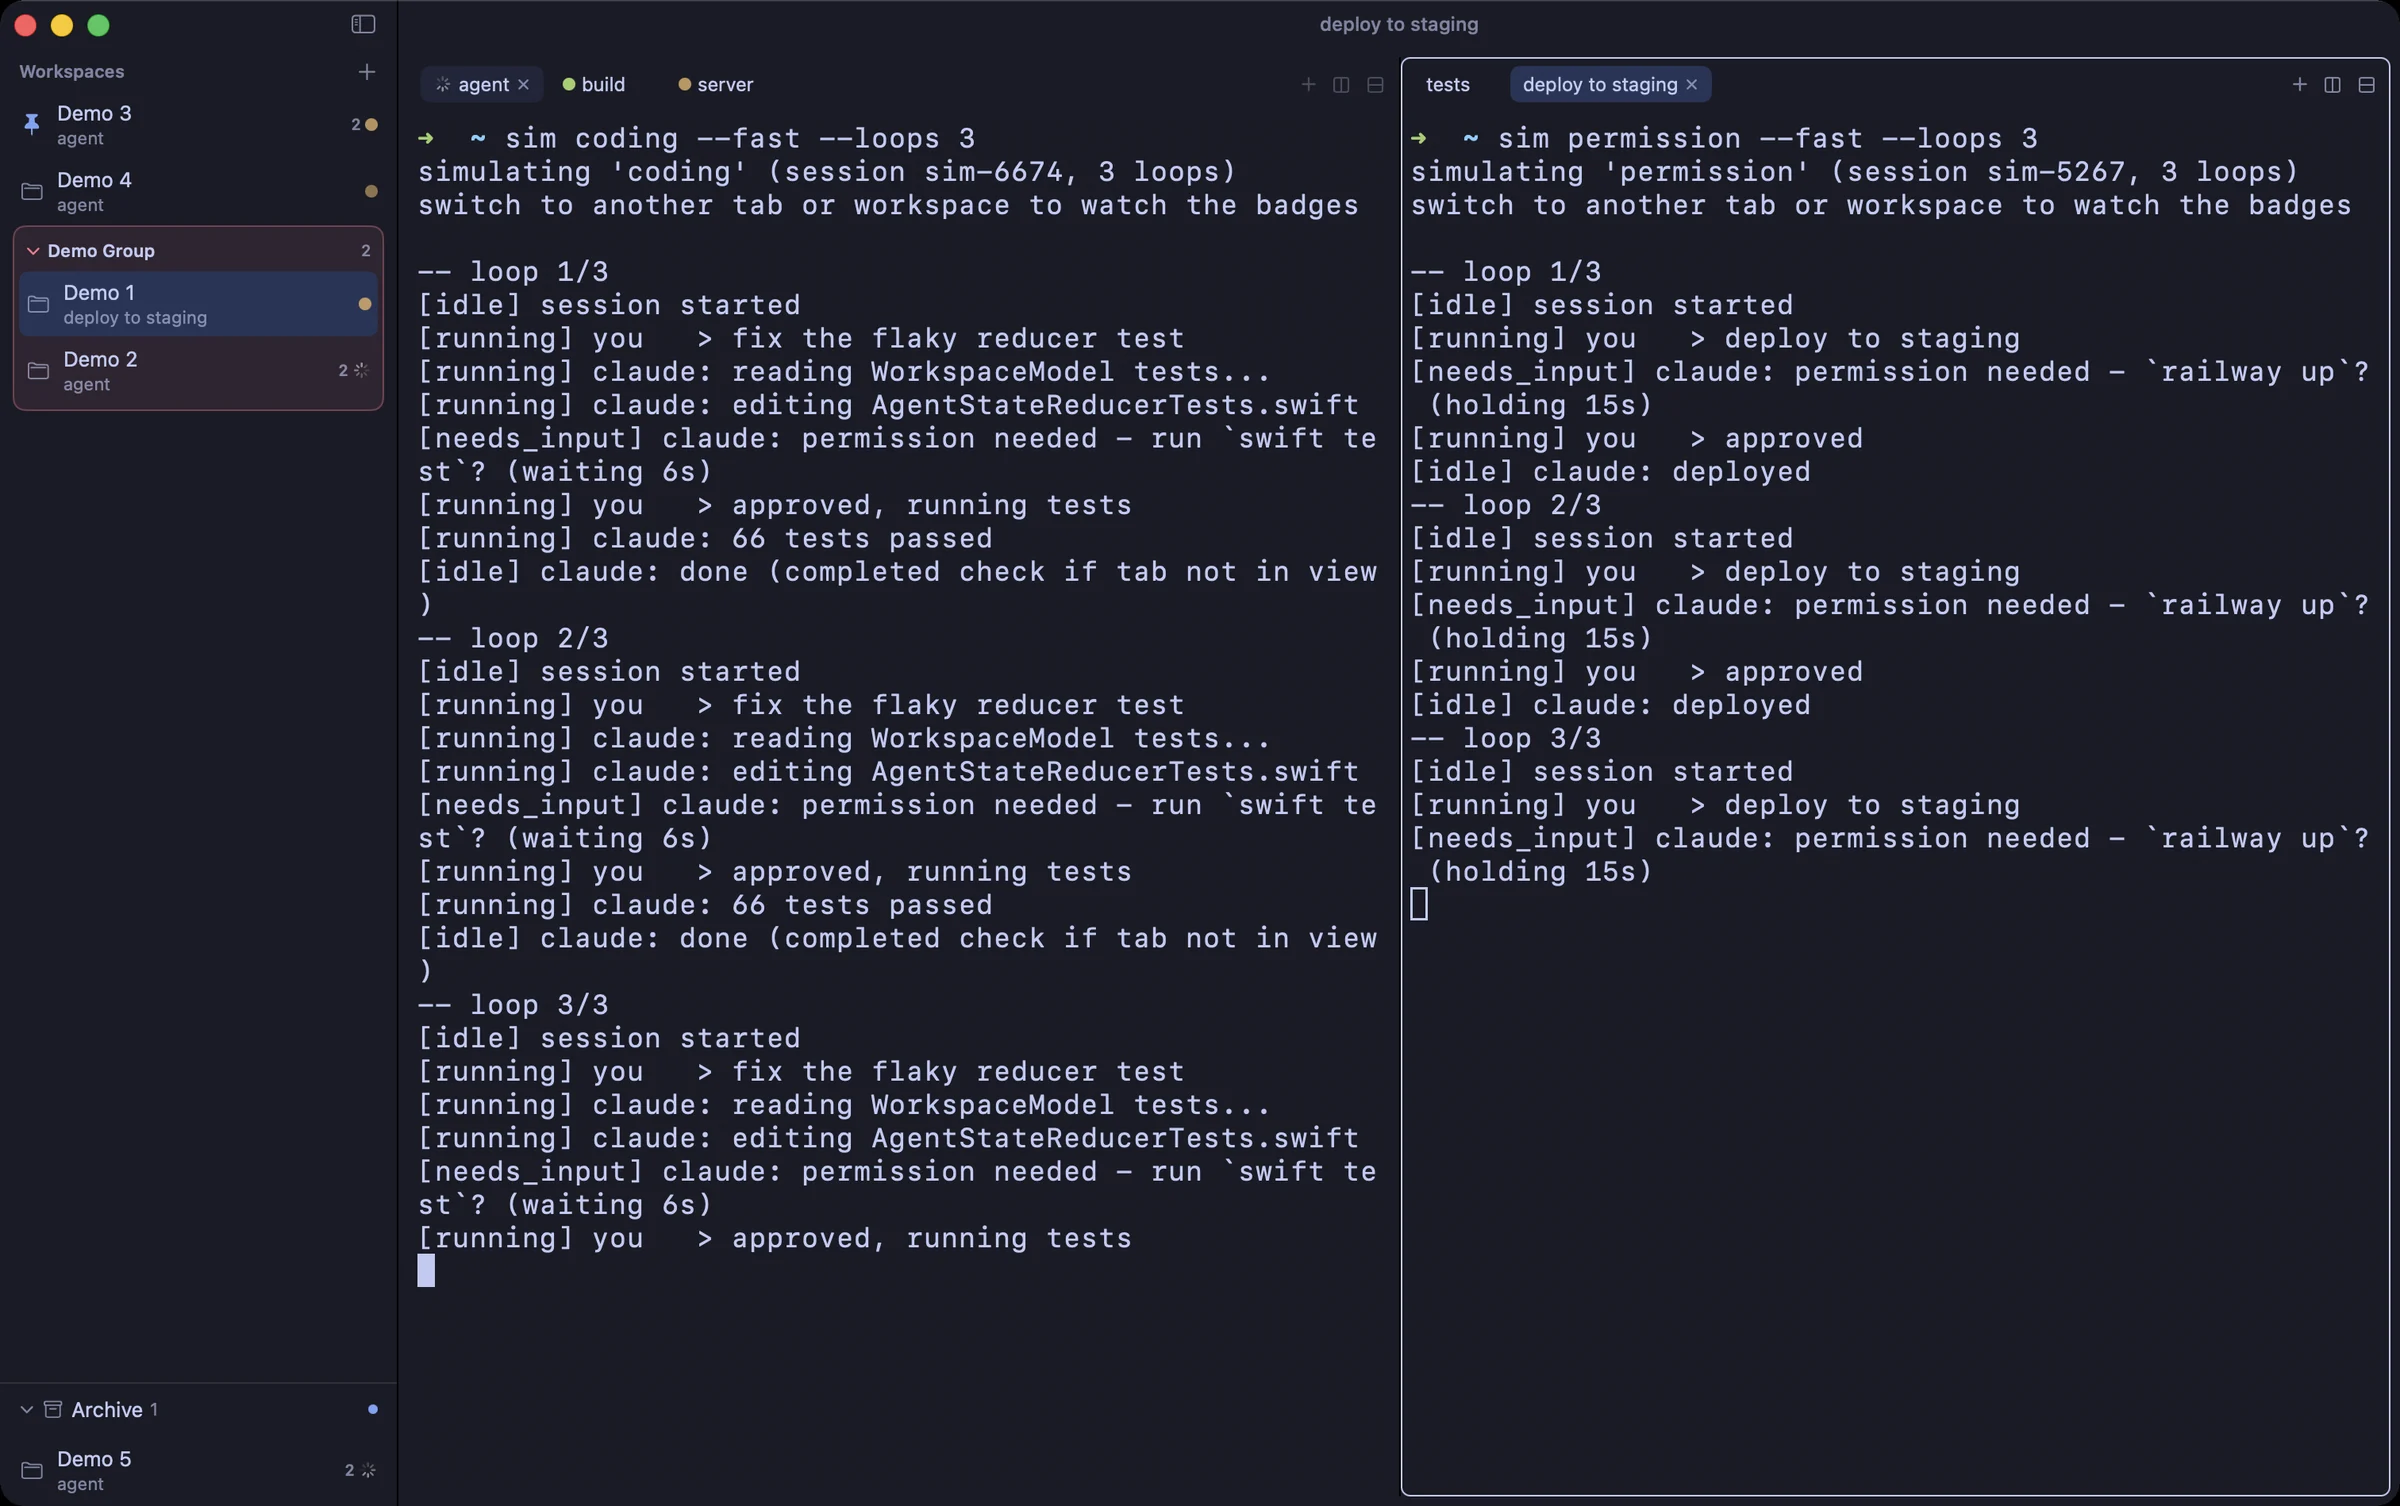
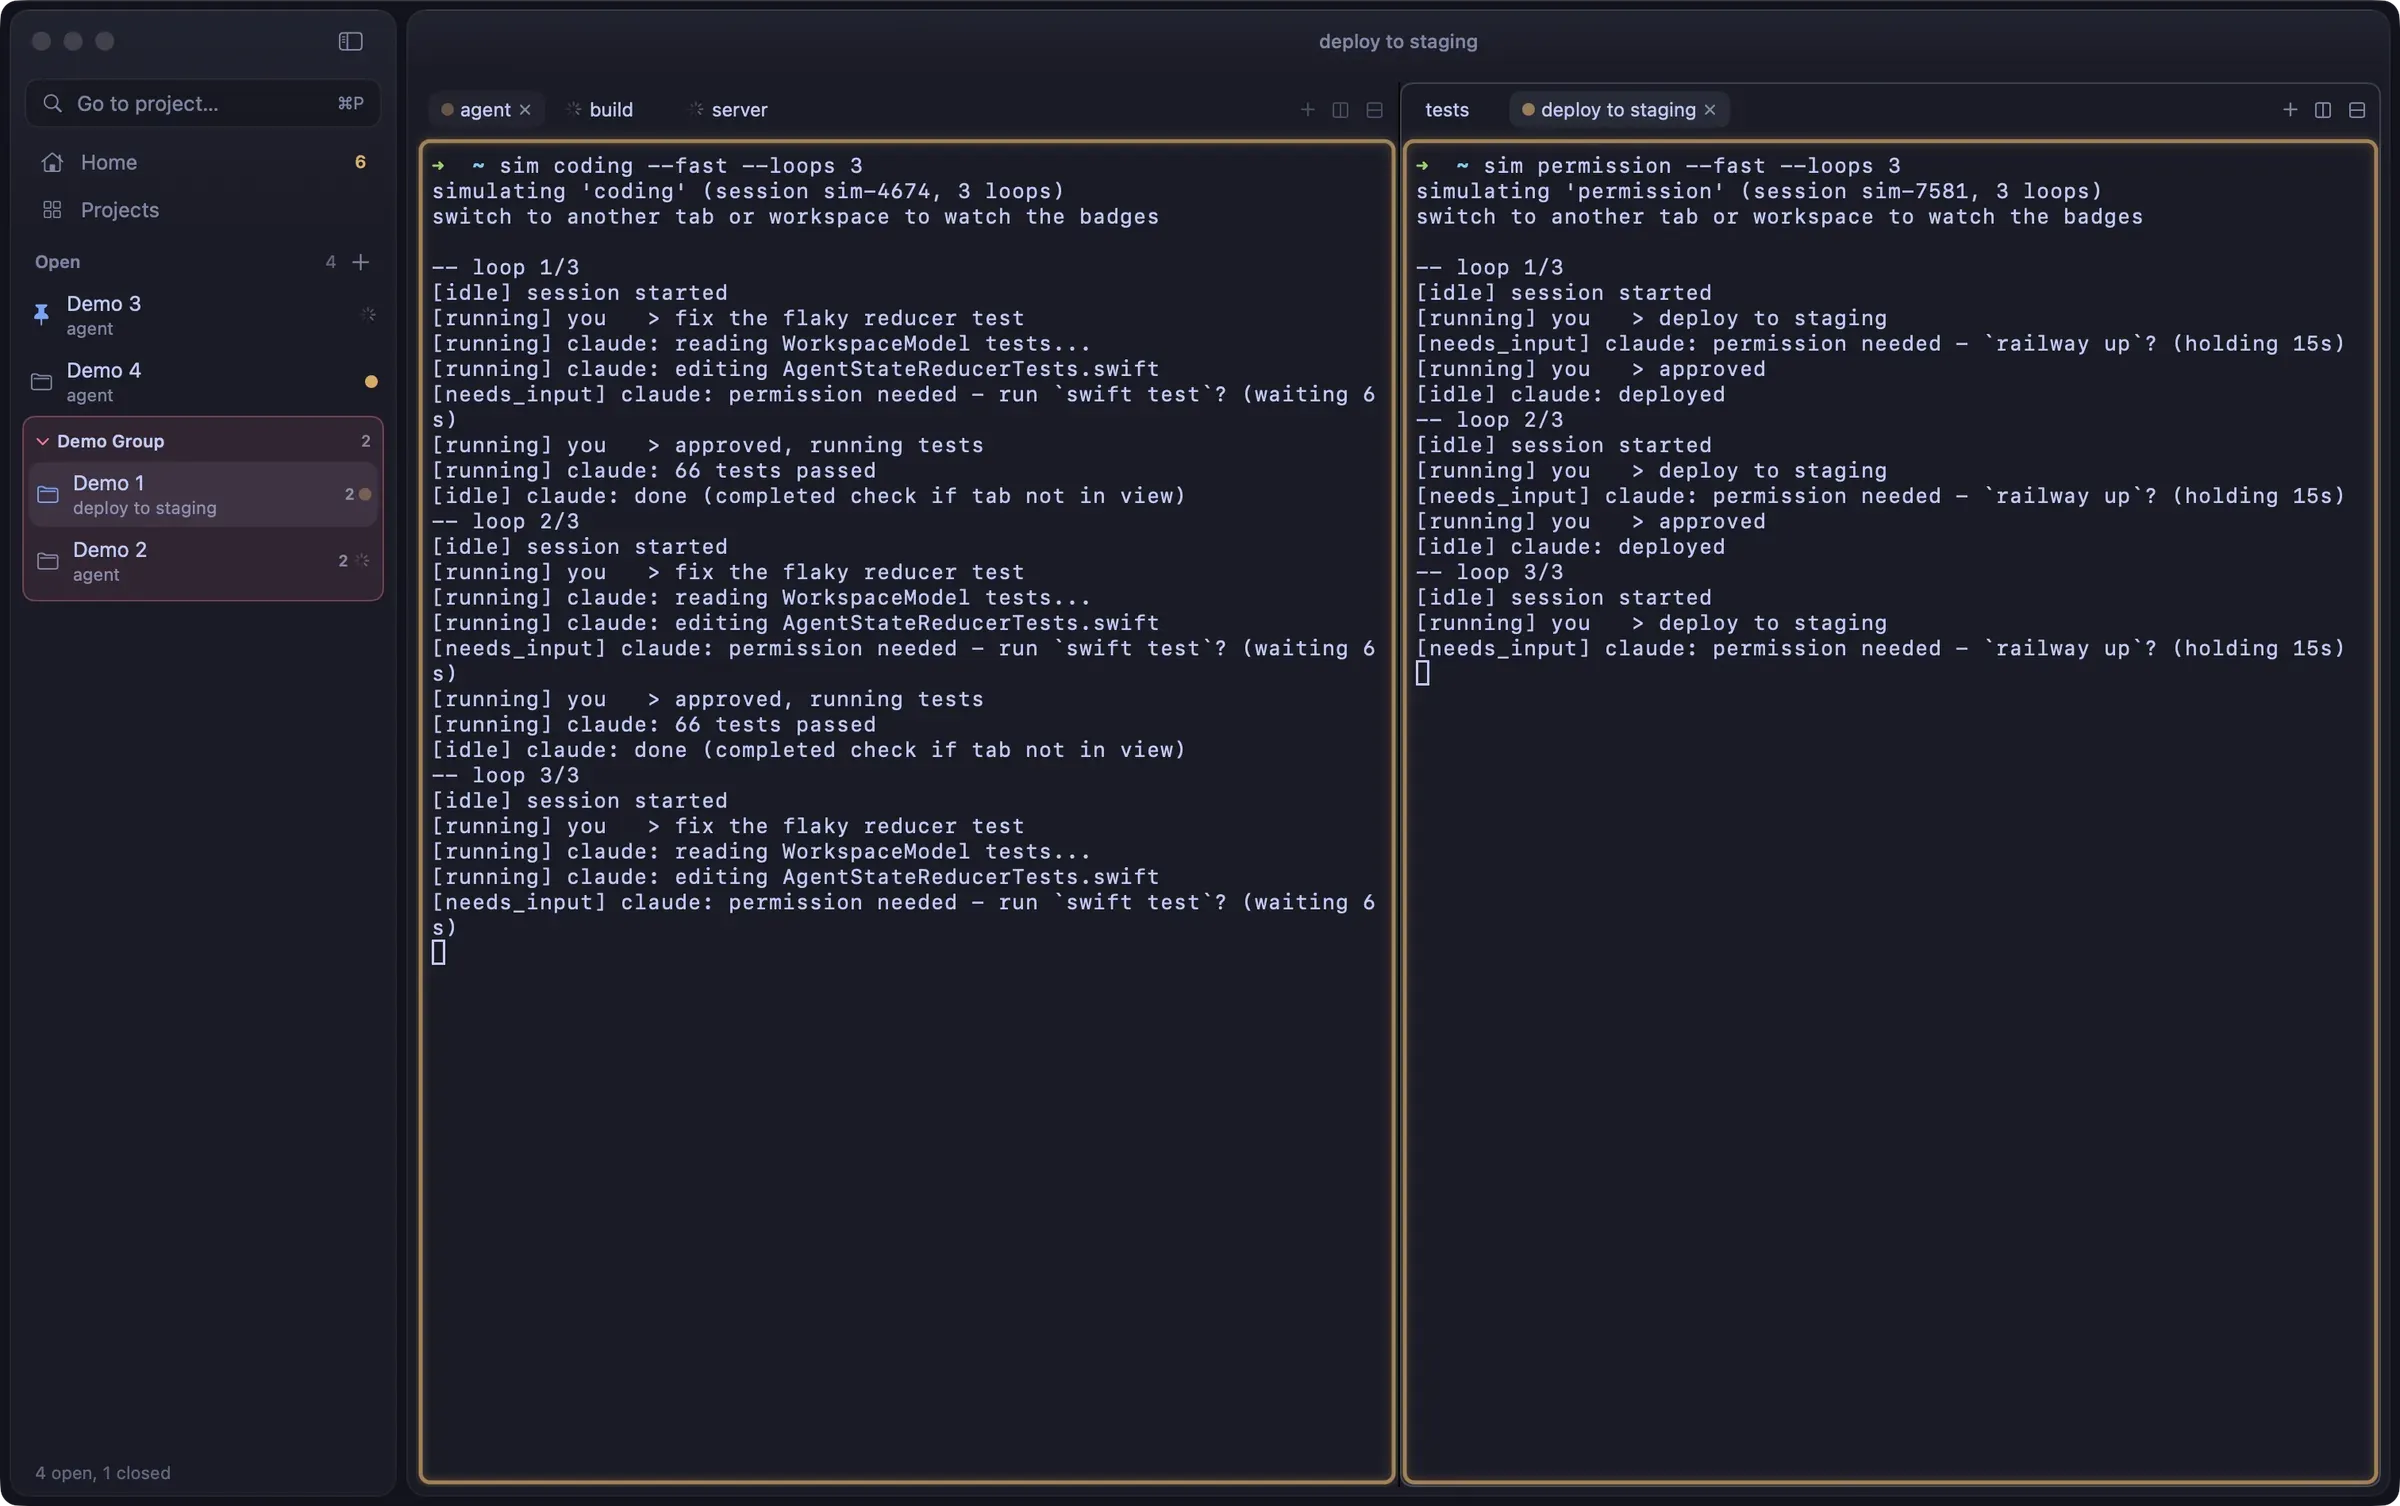
feat(projects): refresh Relay's cover and text for Home and closed projects
The triage dashboard is gone in favor of Home, and projects now close
without being lost: the old cover and bullets showed the archive and the
four-lane dashboard. New cover from the isolated demo, Tokyo Night.

diff --git a/src/content/projects/relay/it.md b/src/content/projects/relay/it.md
@@ -18,8 +18,9 @@ Lavoro con cinque o sei sessioni di Claude Code e Codex aperte insieme, su proge
 
 - Lo stato di ogni agente (in esecuzione, in attesa di input, errore, finito) arriva dagli hook nativi di Claude Code e Codex, non dal parsing dell'output. Resta giusto anche sotto un muro di log di build.
 - Un modello di attenzione in tre passi: una sessione che ti vuole si fa notare, una che hai visto resta in sottofondo, rispondere la spegne.
-- Una dashboard di triage (Cmd+D) mette tutte le sessioni su uno schermo, in quattro corsie per urgenza.
-- Workspace con gruppi e archivio, pane divisi con i propri tab, finestre multiple e un layout che sopravvive al riavvio.
+- Home (Cmd+D) dice quante sessioni ti aspettano e le elenca con l'ultima riga lasciata dall'agente e l'azione che vuole, poi cosa sta lavorando e quali progetti si sono fermati.
+- Un progetto si chiude senza perderlo: tiene gruppo, tab e sessioni degli agenti, e ferma i processi così la memoria torna libera. La sidebar mostra solo i progetti aperti, Projects li elenca tutti e Cmd+P ne riapre uno per nome.
+- Workspace con gruppi, pane divisi con i propri tab, finestre multiple e un layout che sopravvive al riavvio. Gli aggiornamenti si installano dall'app, che poi propone il riavvio.
 
 È scritto in Swift 6 e AppKit, con SwiftTerm come motore dietro un'astrazione che lascia spazio a libghostty. I terminali inattivi vengono scaricati dalla memoria: circa 90 MB residenti con un terminale vivo, 92 con tredici, e 2,4 µs aggiunti nel caso peggiore su un tasto. Metodo e numeri sono nel repo.
 

diff --git a/src/content/projects/relay/en.md b/src/content/projects/relay/en.md
@@ -18,8 +18,9 @@ I work with five or six Claude Code and Codex sessions open at once, across diff
 
 - Each agent's state (running, waiting for input, error, done) comes from native Claude Code and Codex hooks, not from parsing output. It stays right even under a wall of build logs.
 - A three-step attention model: a session that wants you gets loud, one you have seen stays in the background, replying clears it.
-- A triage dashboard (Cmd+D) puts every session on one screen, in four lanes by urgency.
-- Workspaces with groups and an archive, split panes with their own tabs, multiple windows and a layout that survives a restart.
+- Home (Cmd+D) says how many sessions are waiting for you and lists them with the last line each agent left and the action it wants, then what is running and which projects have gone quiet.
+- A project closes without being lost: it keeps its group, tabs and agent sessions, and stops its processes so the memory comes back. The sidebar shows only open projects, Projects lists all of them and Cmd+P reopens one by name.
+- Workspaces with groups, split panes with their own tabs, multiple windows and a layout that survives a restart. Updates install from the app, which then offers a restart.
 
 It is written in Swift 6 and AppKit, with SwiftTerm as the engine behind an abstraction that leaves room for libghostty. Idle terminals are unloaded from memory: about 90 MB resident with one live terminal, 92 with thirteen, and 2.4 µs added in the worst case on a keystroke. Method and numbers are in the repo.
 
